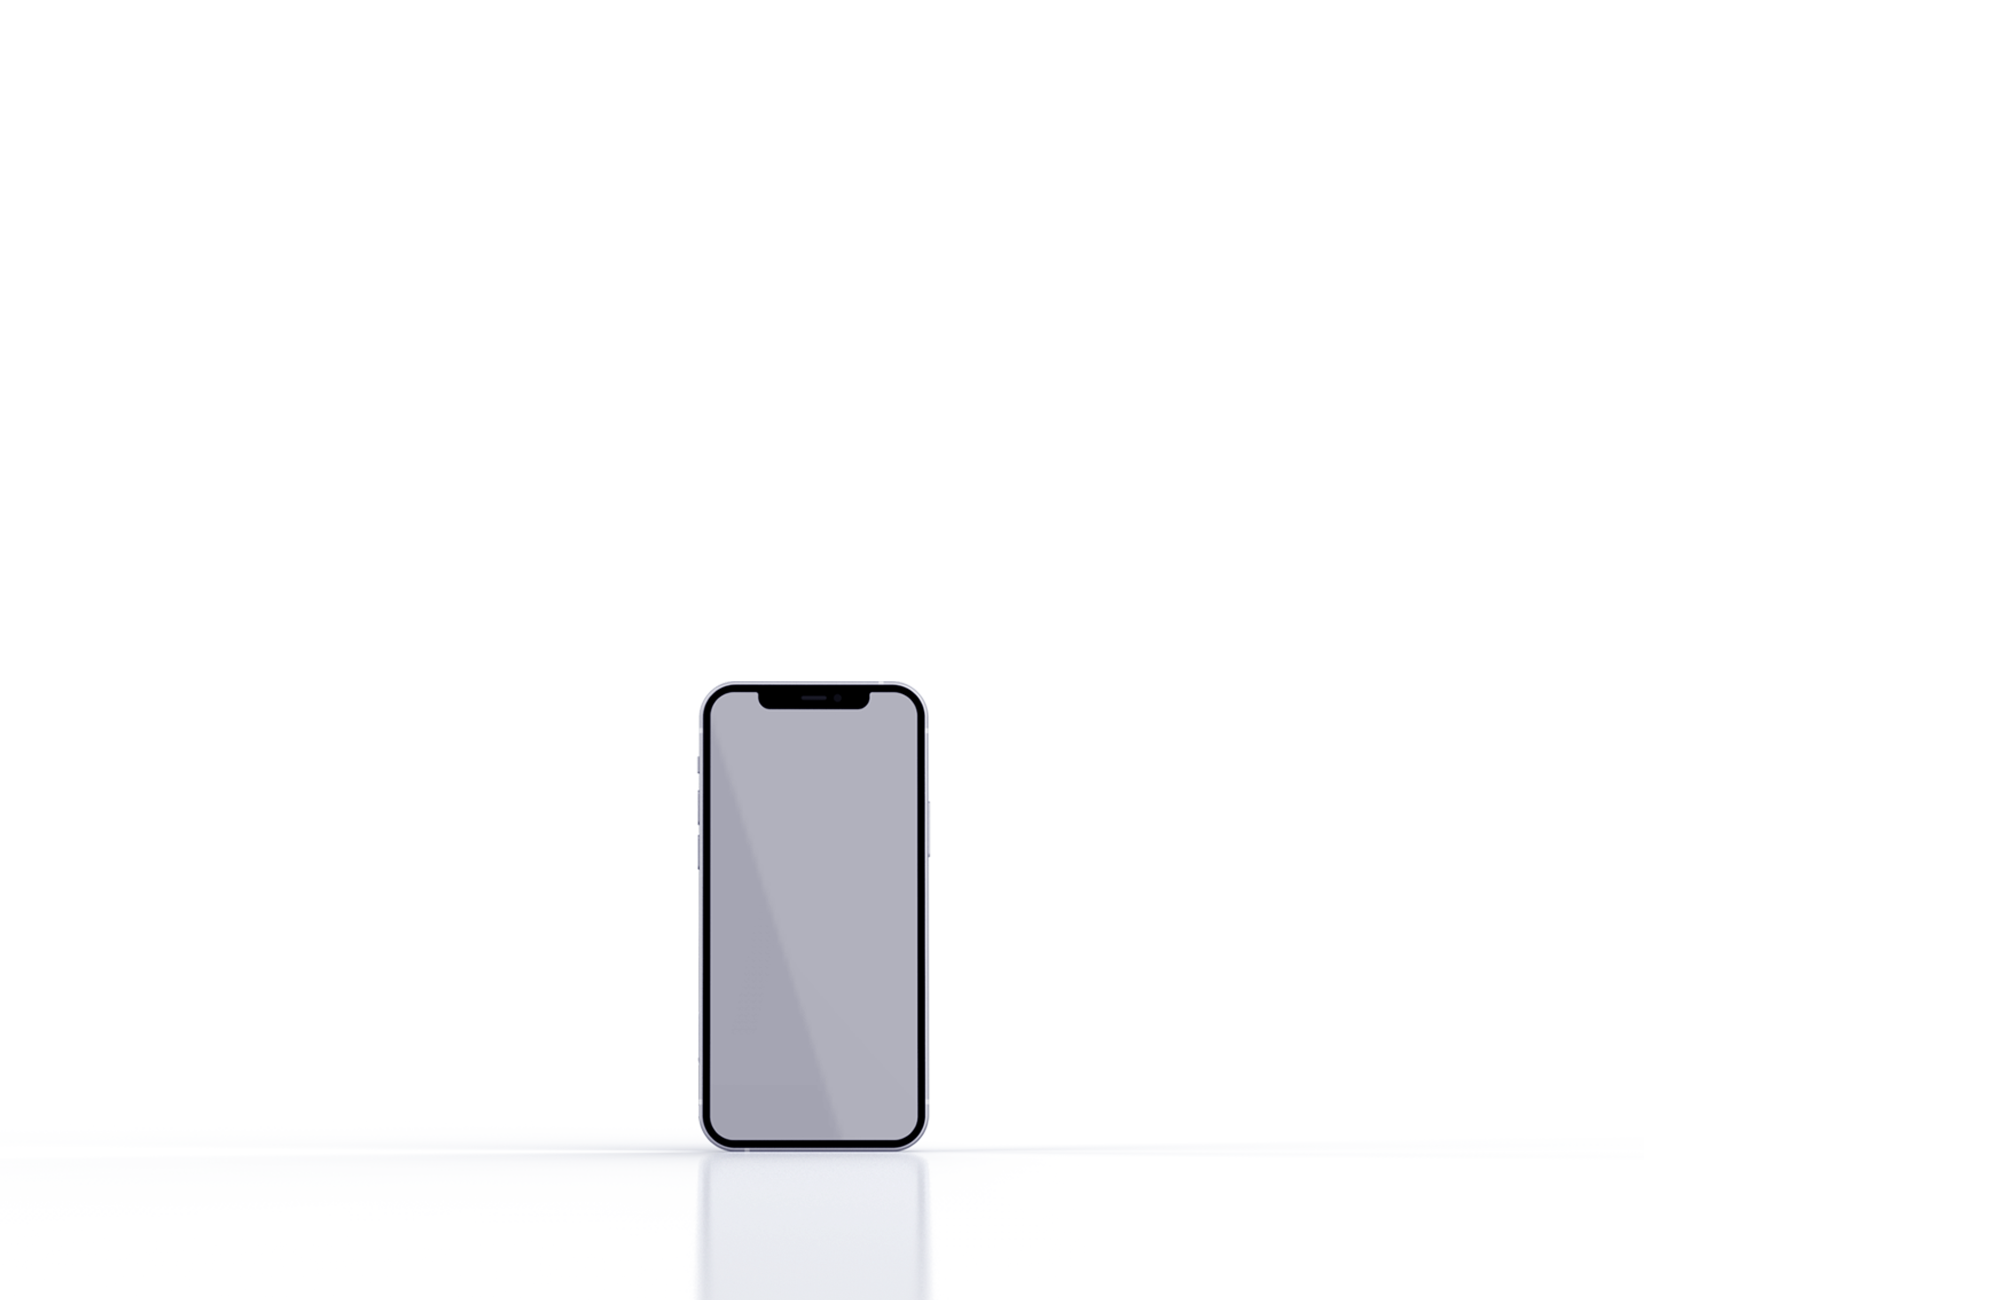
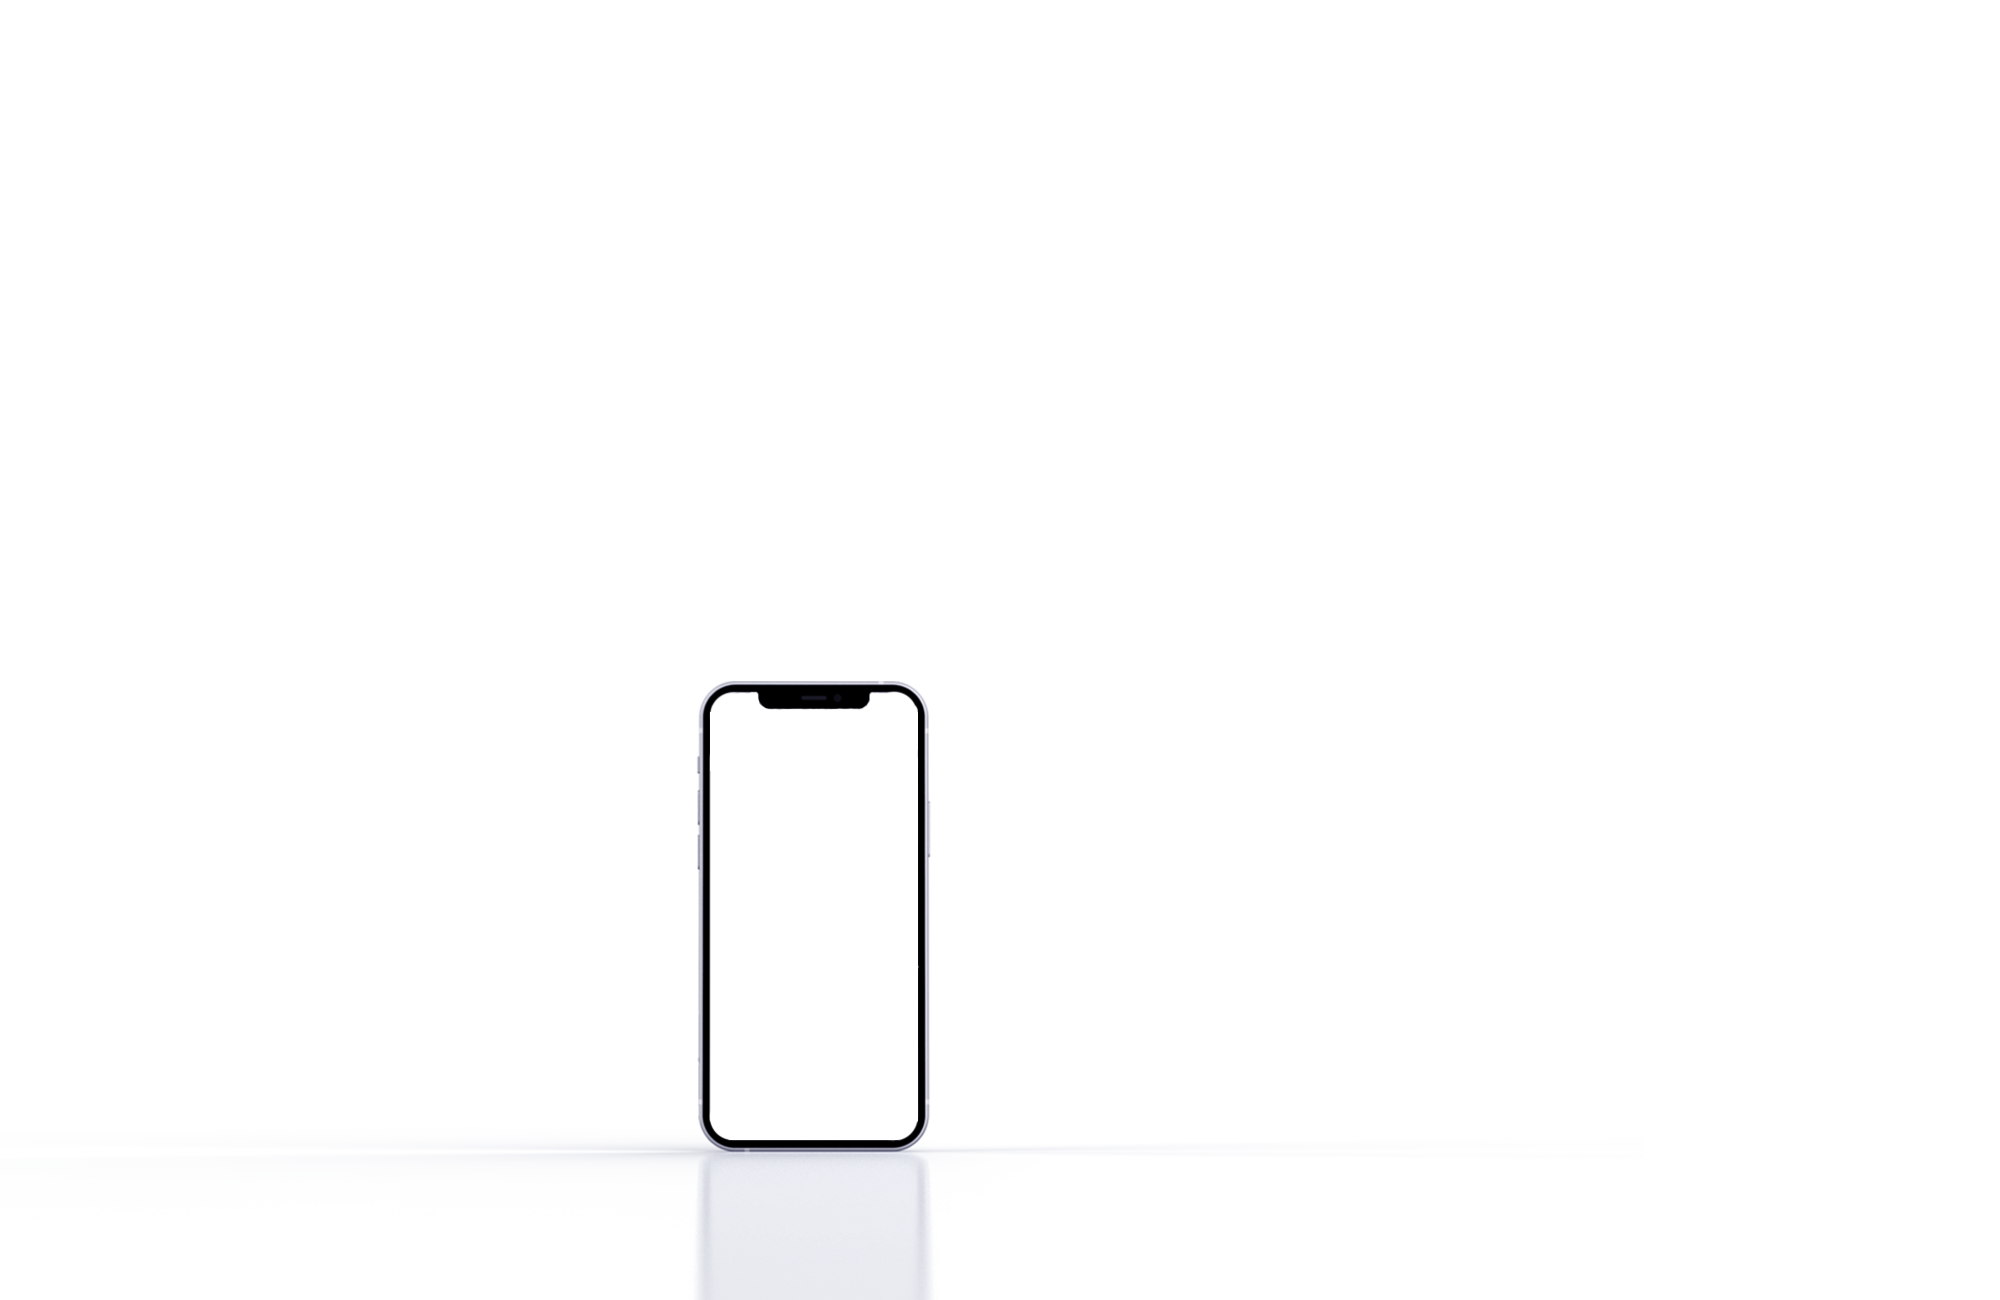
content 2 done

Changed region(s): [[0.341, 0.5231, 0.465, 0.8923]]

diff --git a/src/AppStyles.js b/src/AppStyles.js
@@ -32,6 +32,8 @@ export const Text1 = styled.p`
 `;
 export const Text2 = styled.p`
   font-size: 20px;
+  font-family: "Avant Garde BQ", sans-serif;
+  padding-right: 98px;
 `;
 
 export const Mockup1 = styled.img`
@@ -43,6 +45,64 @@ export const Mockup1 = styled.img`
 // main content 2
 
 export const MainContent2 = styled.div`
-  background: red;
-  height: 658px;
+  background: transparent linear-gradient(237deg, #f5f5f5 0%, #d8d8d8 100%) 0%
+    0% no-repeat padding-box;
+  height: 580px;
+  display: flex;
+  padding: 60px 20px;
+  align-items: center;
+`;
+
+export const Mockup2 = styled.img`
+  height: 435px;
+`;
+export const ContentTextArea2 = styled.div`
+  display: flex;
+  flex-direction: column;
+  justify-content: space-between;
+  align-items: center;
+  padding: 80px 0 40px 90px;
+  width: 43%;
+  height: 480px;
+`;
+
+// main content 3
+
+export const MainContent3 = styled.div`
+  background: transparent
+    linear-gradient(90deg, #d8d3d3 0%, #f9fafa 64%, #f9fafa 90%, #ffffff 100%)
+    0% 0% no-repeat padding-box;
+  height: 646px;
+  display: flex;
+  align-items: center;
+  justify-content: space-between;
+  padding: 0 132px;
+`;
+export const ContentTextArea3 = styled.div`
+  display: flex;
+  flex-direction: column;
+  justify-content: space-between;
+  align-items: flex-start;
+  width: 46%;
+  height: 480px;
+`;
+export const Div3d = styled.div`
+  width: 332px;
+  height: 563px;
+  perspective: 1000px;
+`
+
+export const Mockup3 = styled.img`
+  width: 100%;
+	height: 100%;
+	transform-style: preserve-3d;
+  transform: rotateY(333deg);
+`;
+export const Case = styled.img`
+  position: absolute;
+  width: 2384px;
+  top: 500px;
+  left: 200px;
+  transform-style: preserve-3d;
+  transform: rotateY(333deg);
 `;

diff --git a/src/App.js b/src/App.js
@@ -5,6 +5,9 @@ import { Header } from "./components/Header";
 import { Button } from "./components/Button";
 
 import Mockup1 from "./assets/mockup1.png";
+import Mockup2 from "./assets/mockup2.png";
+import Mockup3 from "./assets/mockupcelgif.gif";
+import Case from './assets/mobilecase.png'
 
 export const App = () => {
   return (
@@ -23,7 +26,35 @@ export const App = () => {
         </C.ContentTextArea>
         <C.Mockup1 src={Mockup1} />
       </C.MainContent1>
-      <C.MainContent2></C.MainContent2>
+      <C.MainContent2>
+        <C.Mockup2 src={Mockup2} />
+        <C.ContentTextArea2>
+          <C.Text1>Simple, Easy and Fast.</C.Text1>
+          <C.Text2>
+            Out of time? Create a professional website in minutes. No code,
+            seriously. <br />
+            Don't worry about the price, it's completely free until your first
+            sale.
+          </C.Text2>
+          <Button BGColor TxtColor>
+            GET STARTED NOW
+          </Button>
+        </C.ContentTextArea2>
+      </C.MainContent2>
+      <C.MainContent3>
+        <C.ContentTextArea3>
+          <C.Text1>Build modern and fully responsive websites.</C.Text1>
+          <C.Text2>We guarantee your website's compatibility with any type and size of screen, so you don't lose customers and can serve any audience.</C.Text2>
+          <Button BGColor TxtColor>
+            CREATE MY WEBSITE
+          </Button>
+        </C.ContentTextArea3>
+        <C.Case src={Case} />
+        <C.Div3d>
+
+        <C.Mockup3 src={Mockup3} />
+        </C.Div3d>
+      </C.MainContent3>
     </C.Container>
   );
 };

diff --git a/src/components/Button/index.js b/src/components/Button/index.js
@@ -5,11 +5,10 @@ const PersoButton = styled.button`
   color: ${(props) => props.TxtColor && `#FFFFFF`};
   border: none;
   margin-bottom: -5px;
-  padding: 4px 12px;
+  padding: 10px 15px;
   font-size: 19px;
   font-weight: 600;
   border-radius: 30px;
-  height: 41px;
   cursor: pointer;
   background-color: ${(props) => (props.BGColor ? `#111111` : "#FFFFFF")};
   margin-left: ${(props) => props.color && "20px"};
